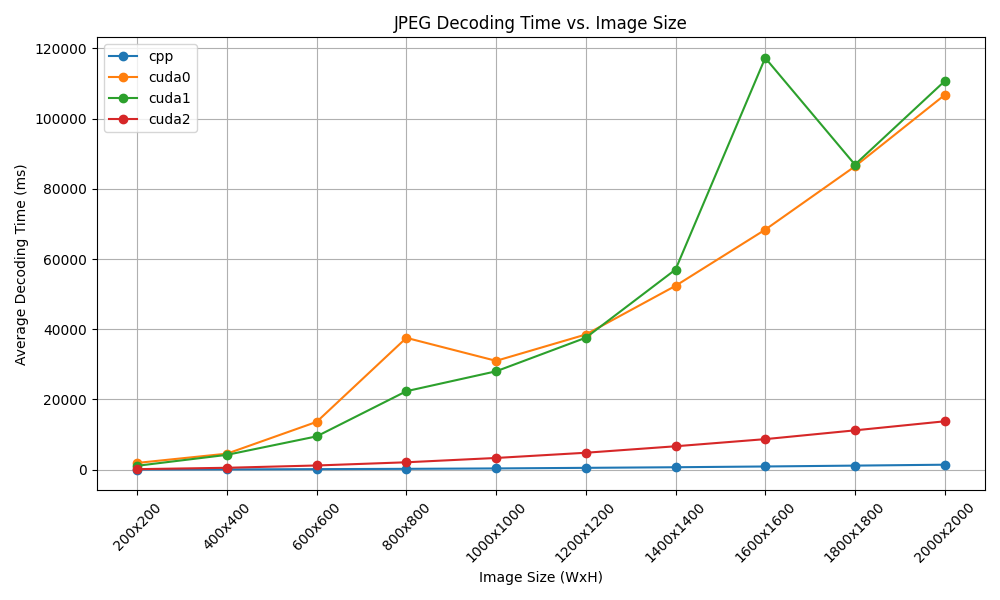
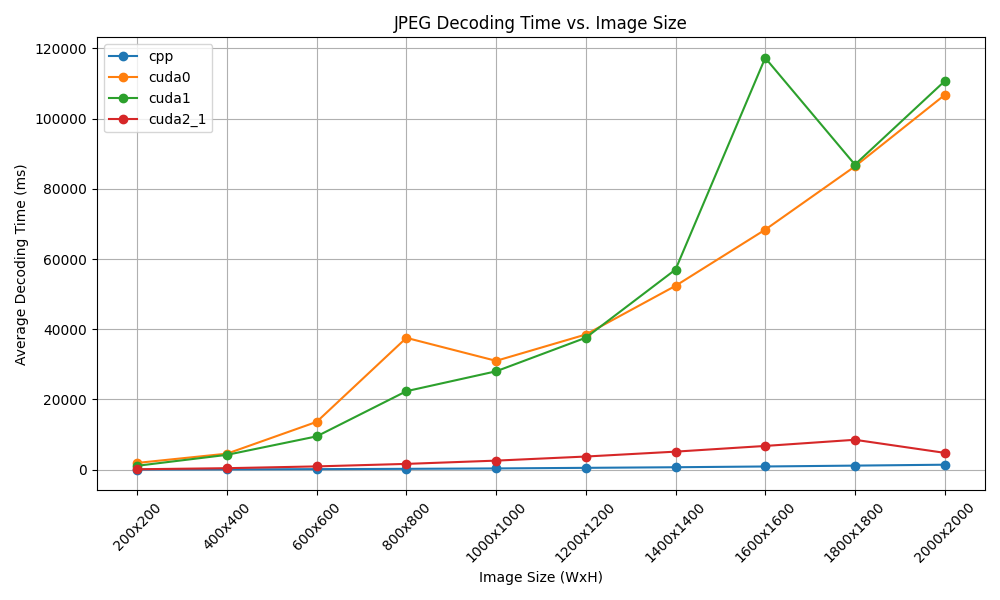
best version so far.

Changed region(s): [[0.248, 0.69, 0.961, 0.78], [0.93, 0.75, 0.961, 0.78], [0.186, 0.18, 0.217, 0.21]]

diff --git a/plots/plot_benchmark.py b/plots/plot_benchmark.py
@@ -3,7 +3,7 @@ import json
 import matplotlib.pyplot as plt
 from collections import defaultdict
 
-versions = ['cpp', 'cuda0', 'cuda1', 'cuda2']
+versions = ['cpp', 'cuda0', 'cuda1', 'cuda2_1']
 
 sizes = [200, 400, 600, 800, 1000, 1200, 1400, 1600, 1800, 2000]
 

diff --git a/cuda2_1-implementation/src/idct.h b/cuda2_1-implementation/src/idct.h
@@ -13,6 +13,8 @@ class IDCT {
     private:
         // std::vector<int> zigzag;
         int* zigzag;
+        int blockSize;
+        int gridSize;
 
     public:
         IDCT(std::vector<int>& base);
